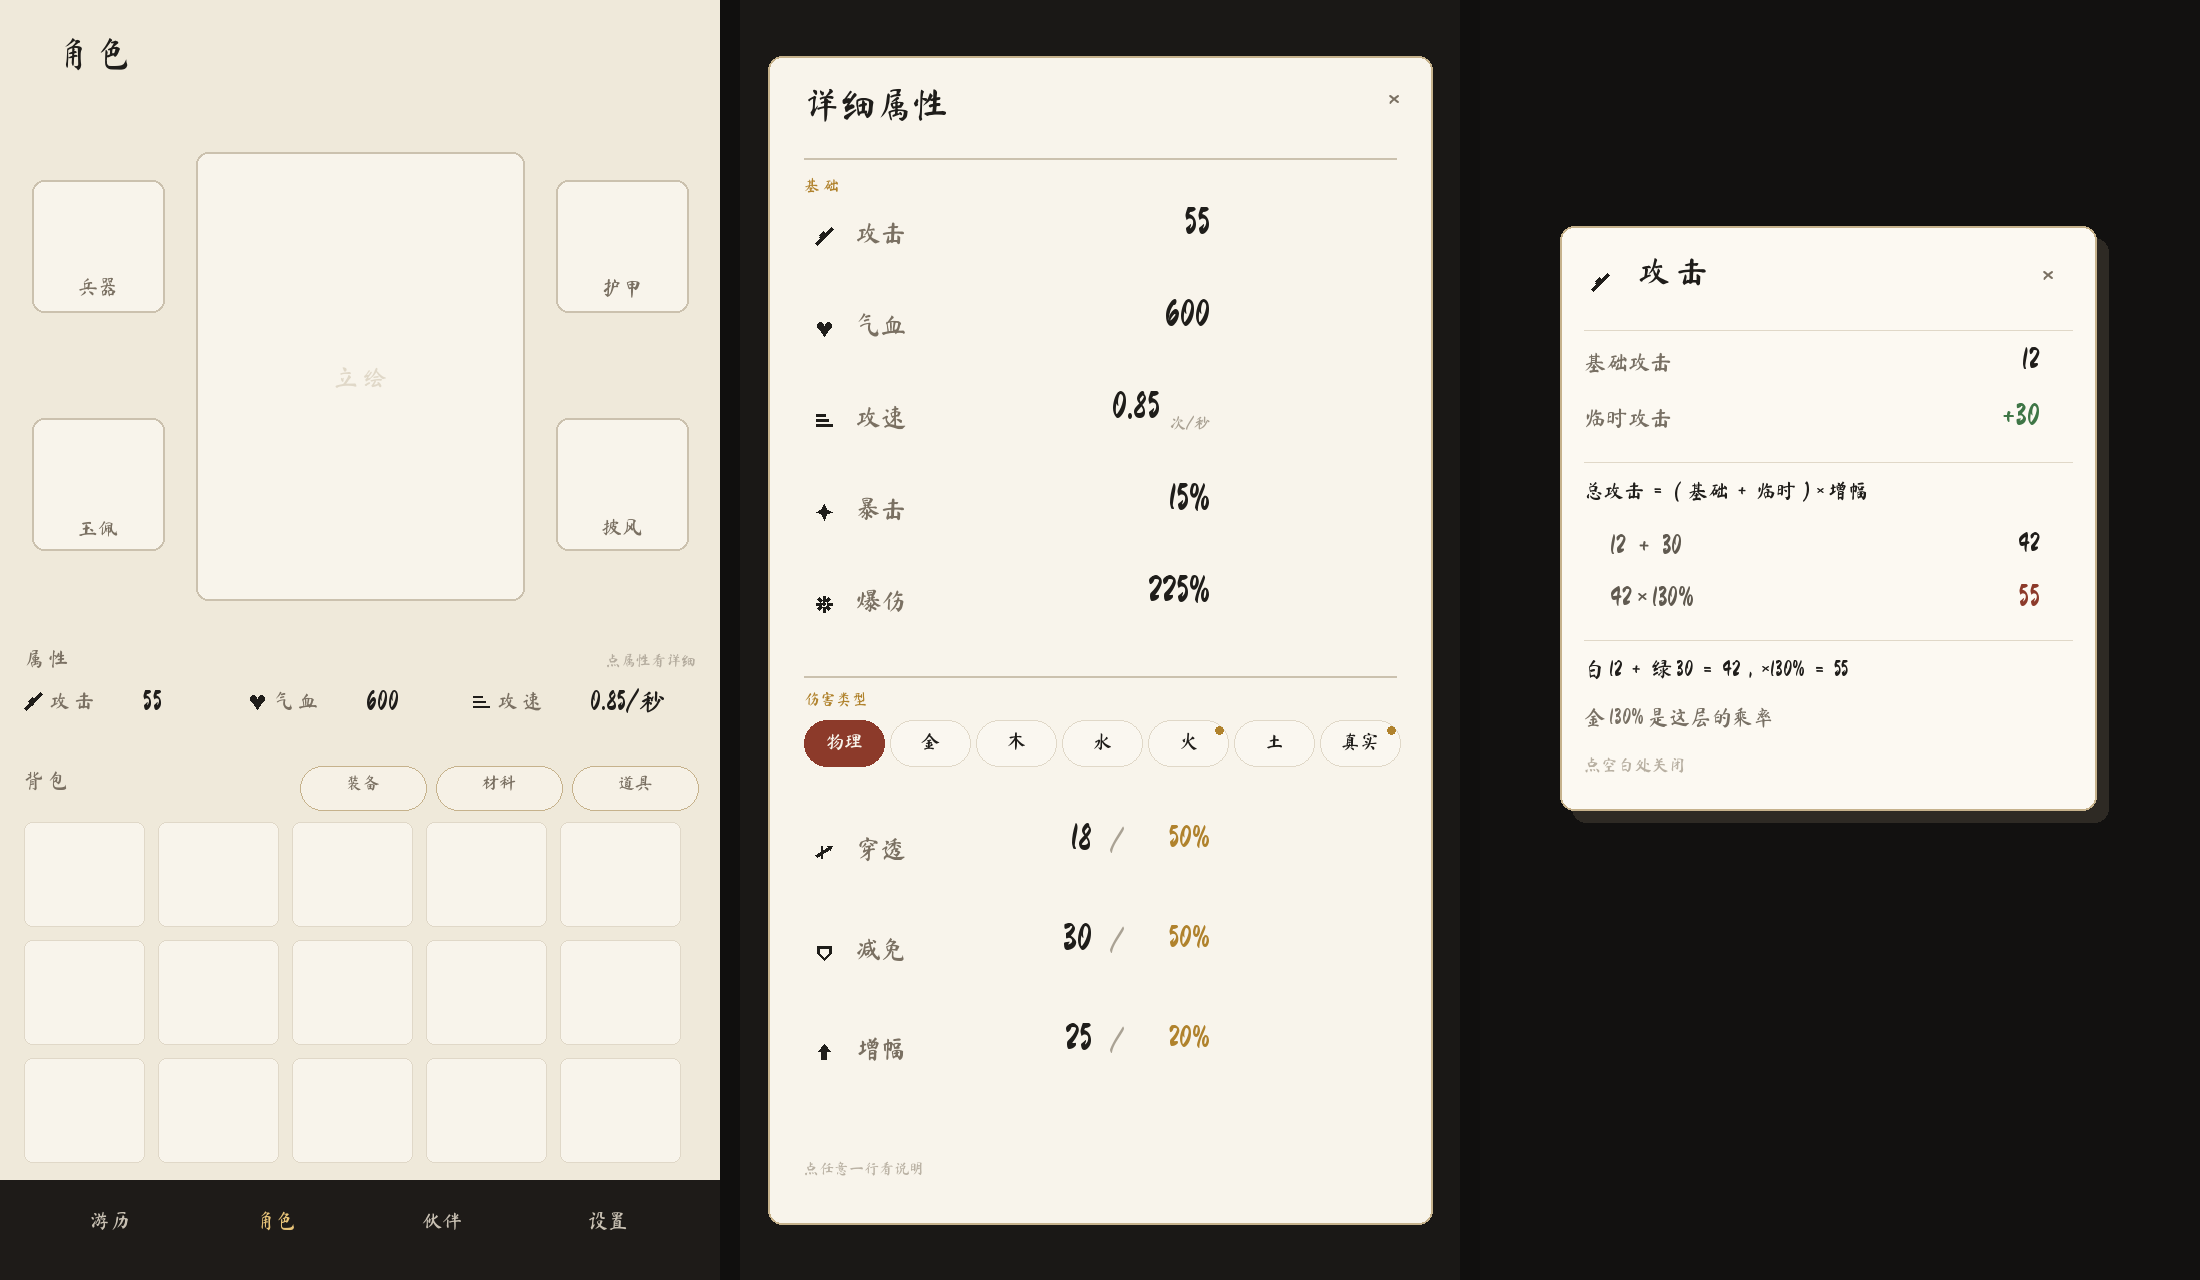
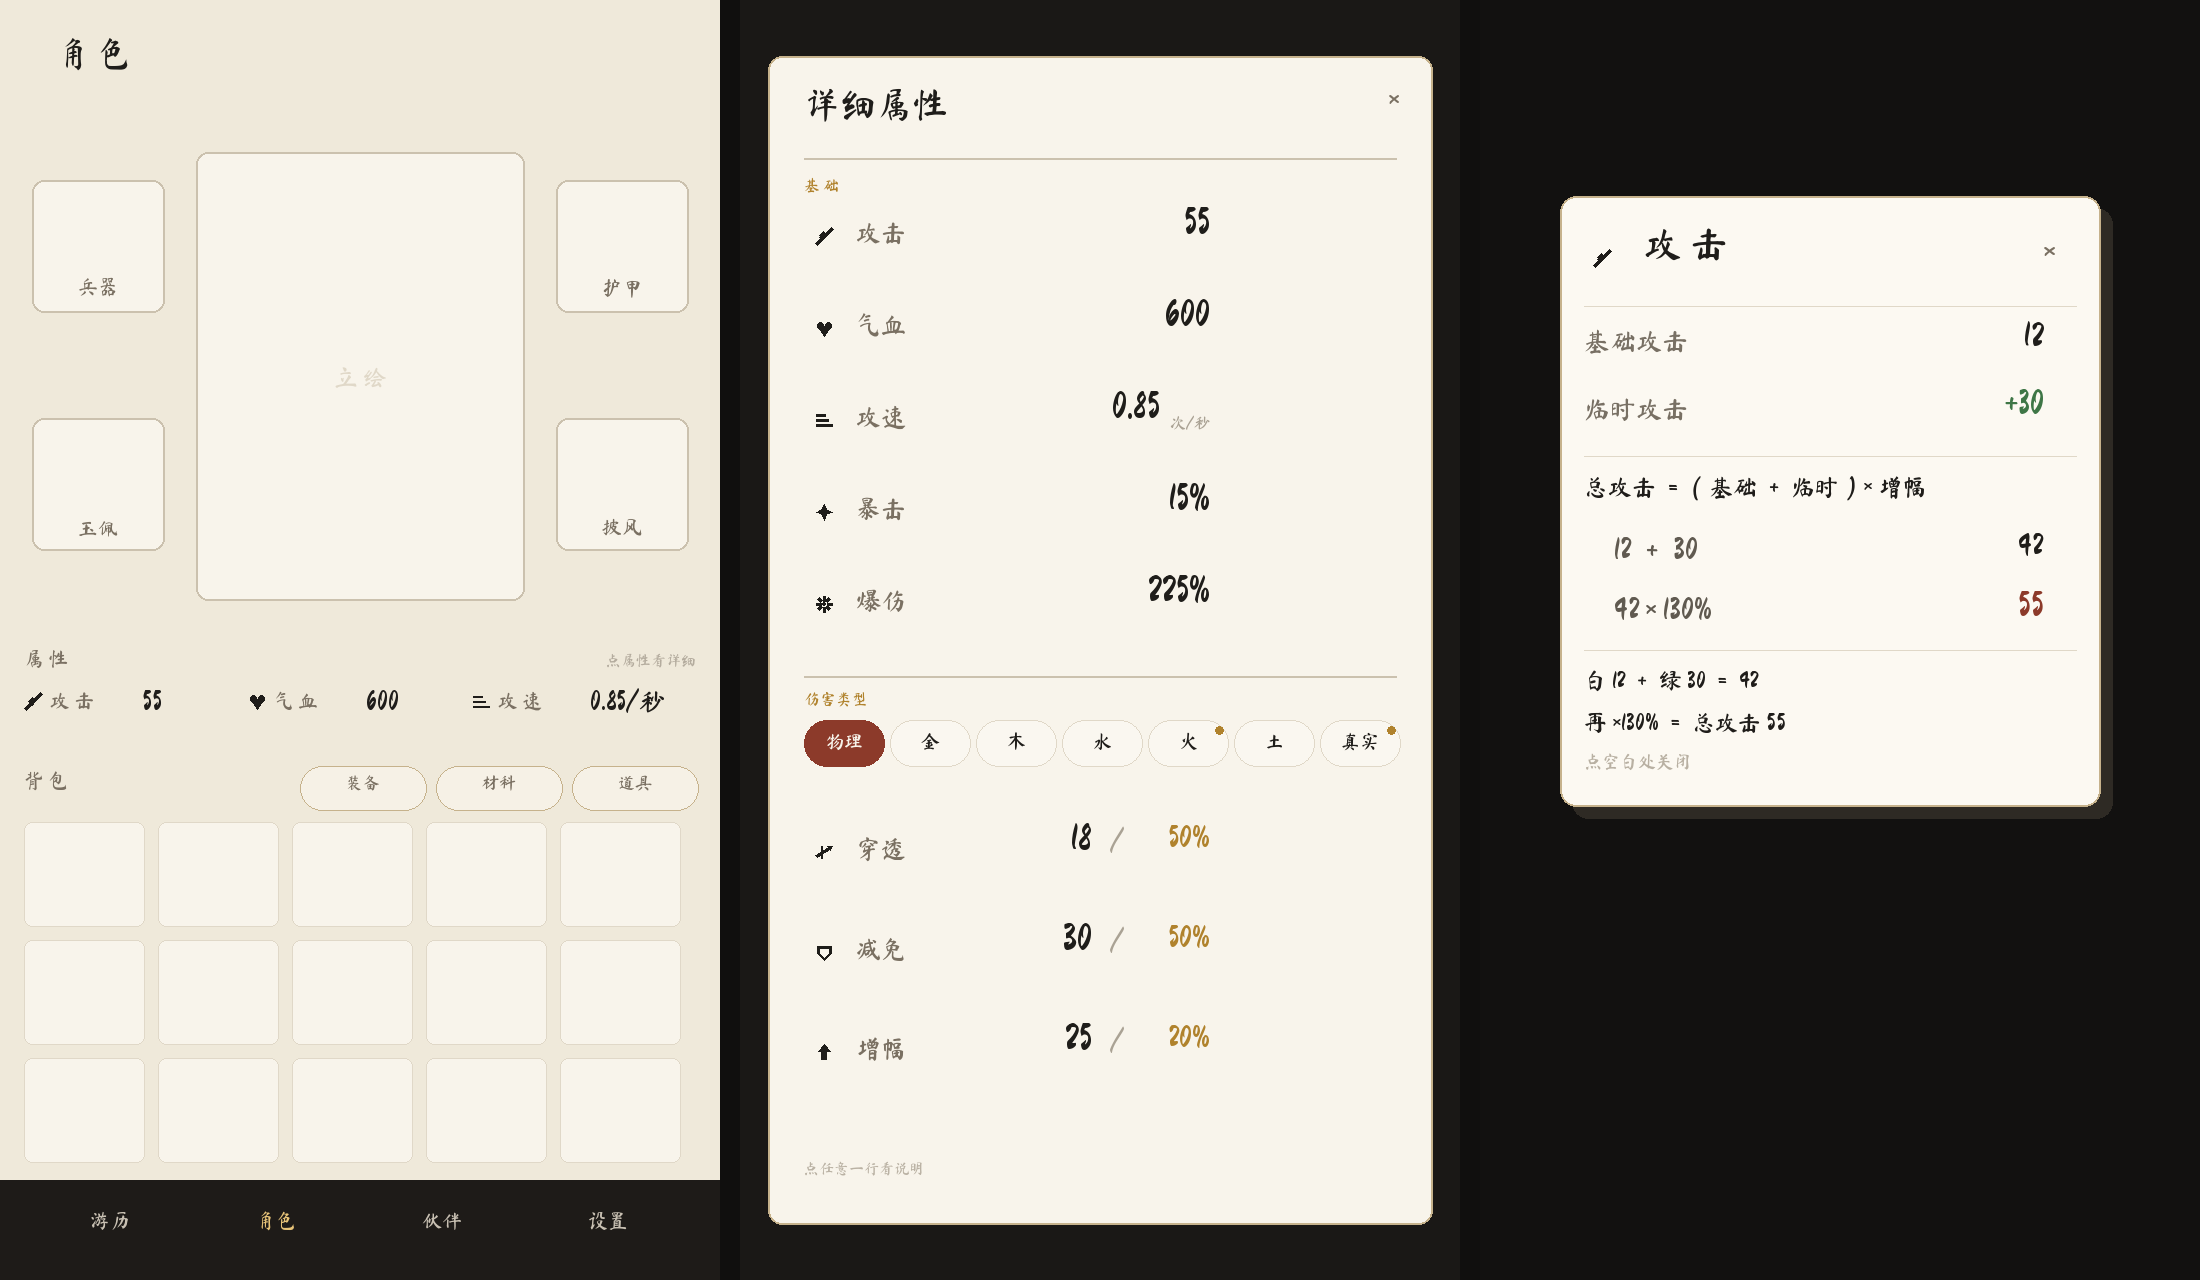
文档：属性弹窗再放大（标题38/条目26/数值34/公式24~30），卡片收到 610

diff --git a/docs/人物属性_设计稿.md b/docs/人物属性_设计稿.md
@@ -329,8 +329,8 @@
 └────────────────────────────────┘
 ```
 
-**字号要够大**（弹窗空间足，别浪费）：标题 32px · 条目名 22px · 数值 30px ·
-公式行 20~26px。卡片高度收到 **约 590**（内容多高就多高），不要留一大片空白。
+**字号要够大**（弹窗空间足，别浪费）：**标题 38px · 条目名 26px · 数值 34px ·**
+**公式行 24~30px**。卡片宽度 540，高度按内容收（**约 610**），不要留一大片空白。
 
 固定四段：**图标＋名称 → 拆解（基础/临时/增幅）→ 算式 → 一句话总结**。
 
